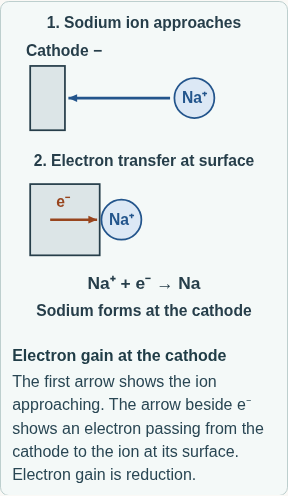
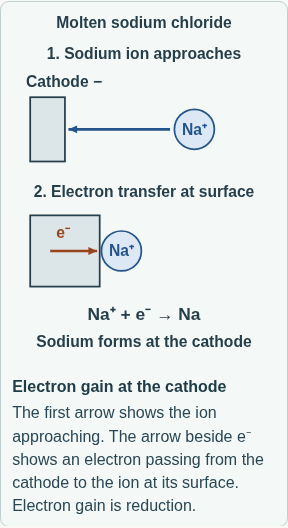
Clarify electrolysis label and phone table layout

Changed region(s): [[0.0938, 0.0907, 0.875, 0.6653], [0.0312, 0.6956, 0.9375, 0.9677], [0.1562, 0.0302, 0.8438, 0.0605]]

diff --git a/public/assets/gcse-more-step-visuals.js b/public/assets/gcse-more-step-visuals.js
@@ -935,14 +935,15 @@ function gasTests() {
 function electrolysisReduction() {
   return fig('Electron gain at the cathode',
     'In molten sodium chloride, a positive sodium ion approaches the negative cathode. At the electrode surface, an electron passes from the cathode to the ion. A sodium atom forms: Na⁺ plus an electron gives Na. The first arrow shows ion movement; the second shows electron transfer.',
-    text(160,25,'1. Sodium ion approaches',ink,18)+
-    text(68,57,'Cathode −',ink,18)+'<rect x="29" y="69" width="40" height="74" fill="#dce5e7" stroke="'+ink+'" stroke-width="2"/>'+
-    circle(218,106,23,'#dce8f5',blue,2)+text(218,112,'Na⁺',blue,18)+arrow(190,106,73,106,blue,3)+
-    text(160,184,'2. Electron transfer at surface',ink,18)+
-    '<rect x="29" y="205" width="80" height="82" fill="#dce5e7" stroke="'+ink+'" stroke-width="2"/>'+
-    circle(134,246,23,'#dce8f5',blue,2)+text(134,252,'Na⁺',blue,18)+text(67,231,'e⁻',rust,18)+arrow(52,246,106,246,rust,3)+
-    text(160,326,'Na⁺ + e⁻ → Na',ink,20)+text(160,357,'Sodium forms at the cathode',ink,18),
-    'The first arrow shows the ion approaching. The arrow beside e⁻ shows an electron passing from the cathode to the ion at its surface. Electron gain is reduction.',375);
+    text(160,25,'Molten sodium chloride',ink,18)+
+    text(160,61,'1. Sodium ion approaches',ink,18)+
+    text(68,93,'Cathode −',ink,18)+'<rect x="29" y="105" width="40" height="74" fill="#dce5e7" stroke="'+ink+'" stroke-width="2"/>'+
+    circle(218,142,23,'#dce8f5',blue,2)+text(218,148,'Na⁺',blue,18)+arrow(190,142,73,142,blue,3)+
+    text(160,220,'2. Electron transfer at surface',ink,18)+
+    '<rect x="29" y="241" width="80" height="82" fill="#dce5e7" stroke="'+ink+'" stroke-width="2"/>'+
+    circle(134,282,23,'#dce8f5',blue,2)+text(134,288,'Na⁺',blue,18)+text(67,267,'e⁻',rust,18)+arrow(52,282,106,282,rust,3)+
+    text(160,362,'Na⁺ + e⁻ → Na',ink,20)+text(160,393,'Sodium forms at the cathode',ink,18),
+    'The first arrow shows the ion approaching. The arrow beside e⁻ shows an electron passing from the cathode to the ion at its surface. Electron gain is reduction.',411);
 }
 
 function latentCalculation() {

diff --git a/public/assets/gcse-investigations.js b/public/assets/gcse-investigations.js
@@ -44,7 +44,7 @@ export const investigations = {
 
 Object.assign(investigations, {
   "electrode-evidence": investigation(10,"C4","Electrolysis from ions to observations","In a molten ionic compound the mobile ions come from the compound. In water, hydrogen and hydroxide ions can also contribute to electrode products.",
-    ["Aqueous copper sulfate and inert graphite electrodes",["Electrode","Observation"],[["Negative","Reddish solid forms"],["Positive","Gas relights a glowing splint"]]],
+    ["Aqueous copper sulfate and inert graphite electrodes",["Electrode","Observation"],[["Negative","Reddish solid forms"],["Positive","Gas relights a glowing splint"]],"school-electrode-evidence"],
     ["Connect two separate inert electrodes to a dc supply and immerse both in the electrolyte. Collect the products separately.",
     "Positive copper ions move towards the negative cathode and gain electrons to form copper metal. The positive anode attracts anions. With sulfate solution and inert electrodes, oxygen forms there.",
     "A glowing splint relighting identifies oxygen. Bubbles alone would show gas formation without identifying the gas."],

diff --git a/public/assets/school-catchup.css b/public/assets/school-catchup.css
@@ -85,6 +85,9 @@
 .school-lesson-table { width: 100%; max-width: 38rem; }
 .school-lesson-table caption { text-align: left; font-weight: 700; }
 .school-lesson-table :is(td,th) { overflow-wrap: anywhere; }
+/* Keep the electrode heading whole so its column has room for the short
+   electrode names; the other column may still wrap naturally on phones. */
+.school-lesson-table.school-electrode-evidence th:first-child { overflow-wrap: normal; }
 .school-evidence-visual { margin: .75rem 0; }
 .school-evidence-visual img { display: block; width: min(100%,26rem); height: auto; background: #f7fafb; border-radius: .5rem; }
 .school-evidence-visual figcaption { margin-top: .4rem; font-size: .9rem; color: #354d57; }

diff --git a/public/assets/gcse-catchup-priority.js b/public/assets/gcse-catchup-priority.js
@@ -25,9 +25,10 @@ export function sequence(year, code, title, hook, idea, options) {
   };
 }
 
-export function table(title, headers, rows) {
+export function table(title, headers, rows, className = "") {
   const container = node("div", "", "writing-data");
   const data = node("table", "", "school-lesson-table");
+  if (className) data.classList.add(className);
   data.createCaption().textContent = title;
   const headings = data.createTHead().insertRow();
   for (const label of headers) {

diff --git a/docs/catchup-visual-coverage-gcse-steps.md b/docs/catchup-visual-coverage-gcse-steps.md
@@ -48,7 +48,7 @@ Original diagrams are schematic and not to scale; colours differentiate features
 | Electrolysis of molten salt and salt solution (`salt-electrolysis`) — 1. Mobile ions | Electrolysis needs ions that can move. In a molten salt or solution, positive ions move to the negative electrode and negative ions move to the positive electrode. | `ions` (original schematic) | Reviewed against AQA 5.4.3.1 | Reviewed against block | 320/1280 rendering checked; phone figure visually inspected |
 | Electrolysis of molten salt and salt solution (`salt-electrolysis`) — 2. Molten compounds | Molten sodium chloride contains only sodium ions and chloride ions. Sodium forms at the negative electrode and chlorine at the positive electrode. | `moltenSalt` (original schematic) | Reviewed against AQA 5.4.3.2 | Reviewed against block | 320/1280 rendering checked; phone figure visually inspected |
 | Electrolysis of molten salt and salt solution (`salt-electrolysis`) — 3. Aqueous compounds | Sodium is more reactive than hydrogen. In sodium chloride solution, hydrogen forms at the negative electrode instead of sodium. | `brine` (original schematic) | Reviewed against AQA 5.4.3.4; concentrated solution specified | Gas bubbles distinguish hydrogen and chlorine; sodium remains mobile | Phase 2 inspected at 320/1280; no misleading sodium arrow |
-| Electrolysis of molten salt and salt solution (`salt-electrolysis`) — Higher Tier | Higher Tier · Reduction is gain of electrons and occurs at the negative electrode. For molten sodium chloride, Na⁺ + e⁻ → Na. | `electrolysisReduction` original schematic (inside Higher Tier disclosure) | Reviewed against AQA 5.4.3.5 | Ion approach and electron transfer at the cathode are separate | Phase 2 inspected at 320/1280; arrows have distinct purposes |
+| Electrolysis of molten salt and salt solution (`salt-electrolysis`) — Higher Tier | Higher Tier · Reduction is gain of electrons and occurs at the negative electrode. For molten sodium chloride, Na⁺ + e⁻ → Na. | `electrolysisReduction` original schematic (inside Higher Tier disclosure) | Reviewed against AQA 5.4.3.5 | Ion approach and electron transfer at the cathode are separate; the material is explicitly labelled molten sodium chloride in the figure | Phase 2 inspected at 320/1280; arrows and material label remain distinct |
 | Exothermic and endothermic reaction profiles (`reaction-profiles`) — opening key idea | The activation energy is the initial barrier. The difference between the reactant and product energy levels shows the overall transfer. | `energy profiles + activationBarrier + reactionNetTransfer` in opening notes | Reviewed against AQA 5.5.1.1–2 | Reviewed against block | 320/1280 rendering checked; figures visually inspected |
 | Exothermic and endothermic reaction profiles (`reaction-profiles`) — 1. Find the barrier | Activation energy is the minimum energy particles need for a successful collision. Read it from the reactant energy level to the peak. | `activationBarrier` (original schematic) | Reviewed against AQA 5.5.1.2 | Reviewed against block | 320/1280 rendering checked; phone figure visually inspected |
 | Exothermic and endothermic reaction profiles (`reaction-profiles`) — 2. Read the net change | Products have a lower energy level in an exothermic reaction. Energy is transferred to the surroundings. An endothermic reaction transfers in energy overall. | Original profiles + `reactionNetTransfer` | Reviewed against AQA 5.5.1.1–2 | Reviewed against block | 320/1280 rendering checked; phone figure visually inspected |
@@ -204,7 +204,7 @@ Original diagrams are schematic and not to scale; colours differentiate features
 | Quadrats, transects and abundance (`quadrat-evidence`) — worked 1: Work through the investigation | For a whole-field estimate, choose pairs of random grid coordinates before looking at plants. Use the same quadrat area and boundary rule each time. | `randomCoordinates + quadratBoundary` (directly beside this line) | Reviewed against AQA 4.7.2.1 | Reviewed: random coordinate, placement and an example boundary rule shown | 320/1280 rendering checked; phone figure visually inspected |
 | Quadrats, transects and abundance (`quadrat-evidence`) — worked 2: Work through the investigation | Four random 1 m² quadrats contain 2, 4, 5 and 5 plants. Mean density is 4 per m². A 200 m² field is estimated to contain 800 plants. | `quadratMeanWorked` (directly beside this line) | Reviewed against AQA 4.7.2.1 | Reviewed: counts, mean and area estimate shown | 320/1280 rendering checked; phone figure visually inspected |
 | Quadrats, transects and abundance (`quadrat-evidence`) — worked 3: Work through the investigation | For a gradient, place quadrats at fixed distances from the hedge. Repeat parallel transects to capture variation. | `parallelTransects` (directly beside this line) | Reviewed against AQA 4.7.2.1 | Reviewed: equal spacing and repeated parallel transects shown | 320/1280 rendering checked; phone figure visually inspected |
-| Electrolysis from ions to observations (`electrode-evidence`) — opening key idea | In a molten ionic compound the mobile ions come from the compound. In water, hydrogen and hydroxide ions can also contribute to electrode products. | `observations table + ionsInElectrolytes` in opening notes | Reviewed against AQA 5.4.3.1 and 5.4.3.4 | Reviewed against block | 320/1280 rendering checked; figures visually inspected |
+| Electrolysis from ions to observations (`electrode-evidence`) — opening key idea | In a molten ionic compound the mobile ions come from the compound. In water, hydrogen and hydroxide ions can also contribute to electrode products. | `observations table + ionsInElectrolytes` in opening notes | Reviewed against AQA 5.4.3.1 and 5.4.3.4 | Reviewed against block | 320/375/1280 table checked; “Electrode” and electrode names stay whole; figures visually inspected |
 | Electrolysis from ions to observations (`electrode-evidence`) — worked 1: Work through the investigation | Connect two separate inert electrodes to a dc supply and immerse both in the electrolyte. Collect the products separately. | `copperElectrolysis + anodeGasCollection` (directly beside this line) | Reviewed against AQA 5.4.3.1 and 5.4.3.4, practical 9 | Reviewed: connected inert electrodes and gas collected separately | 320/1280 rendering checked; phone figure visually inspected |
 | Electrolysis from ions to observations (`electrode-evidence`) — worked 2: Work through the investigation | Positive copper ions move towards the negative cathode and gain electrons to form copper metal. The positive anode attracts anions. With sulfate solution and inert electrodes, oxygen forms there. | `electrodeProducts` (directly beside this line) | Reviewed against AQA 5.4.3.1 and 5.4.3.4 | Reviewed: copper ions to cathode, anions to anode and observed products | 320/1280 rendering checked; phone figure visually inspected |
 | Electrolysis from ions to observations (`electrode-evidence`) — worked 3: Work through the investigation | A glowing splint relighting identifies oxygen. Bubbles alone would show gas formation without identifying the gas. | `glowingSplint` (directly beside this line) | Reviewed against AQA 5.8.2.2 | Reviewed: glowing splint relights in collected oxygen | 320/1280 rendering checked; phone figure visually inspected |

diff --git a/docs/catchup-visual-quality-phase2.md b/docs/catchup-visual-quality-phase2.md
@@ -7,7 +7,8 @@ This is a targeted adversarial review of selected teaching routes, not a full sc
 | KS3 Year 8 electricity, electromagnet | High: the cell terminal was disconnected and a straight wire bypassed the coil. | The closed circuit now passes through a continuous winding around the iron core. | The wire joins both terminals and the winding; the model is schematic. Cell and switch labels were separated after checking the deployed Poppins font. [Before](catchup-visual-phase2/ks3-electromagnet-before-phone.png) · [After](catchup-visual-phase2/ks3-electromagnet-after-phone.png) |
 | KS3 reproduction, pollination | Medium: the ovule leader ended against a similarly coloured outline, and small labels and movement arrow were hard to read on a phone. | Contrasting endpoint dots identify the ovule and pollen tube; the pollen movement arrow has a distinct head and the caption distinguishes it from label lines. | Both pollination and pollen-tube states inspected at 320 and 1280 px; [KS3 ledger](catchup-visual-coverage-ks3-steps.md). |
 | Year 9 active transport, opening and teaching steps | High: the comparison omitted the carrier protein and its labels became very small on phones; opening leaders missed their intended structures. | The active-transport panel shows the protein and direction against the concentration gradient, with larger labels and leaders placed on their targets. | Movement arrows, membrane, protein, respiratory-energy explanation and independent-stage separation checked at 320 and 1280 px. This is the Year 9/GCSE bridge rather than a Year 10 lesson. |
-| GCSE electrolysis, aqueous and Higher Tier reduction | High: the brine arrow could be read as sodium forming hydrogen; the reduction drawing placed electron transfer away from the electrode. | Bubbles identify gaseous products and the caption states sodium ions remain mobile. Two stages distinguish ion approach from electron transfer at the cathode surface. | Arrow functions and endpoints checked with the relevant Foundation and Higher text. [Before](catchup-visual-phase2/gcse-reduction-before-phone.png) · [After](catchup-visual-phase2/gcse-reduction-after-phone.png) |
+| GCSE electrolysis, aqueous and Higher Tier reduction | High: the brine arrow could be read as sodium forming hydrogen; the reduction drawing placed electron transfer away from the electrode. | Bubbles identify gaseous products and the caption states sodium ions remain mobile. Two stages distinguish ion approach from electron transfer at the cathode surface; the figure explicitly labels the molten sodium chloride example. | Arrow functions and endpoints checked with the relevant Foundation and Higher text. [Before](catchup-visual-phase2/gcse-reduction-before-phone.png) · [After](catchup-visual-phase2/gcse-reduction-after-phone.png) |
+| GCSE electrode evidence, observations table | Low: on a narrow screen the “Electrode” heading could break within the word. | The electrode table preserves the first heading as a whole word while allowing the observation column to wrap. | Checked at 320, 375 and 1280 px, including the guided evidence copy; [phone view](catchup-visual-phase2/gcse-electrode-table-phone.png). |
 | GCSE nervous coordination, reflex and synapse | High: the reflex visual did not identify the receptor or relay neurone, and the transmitter arrow ran through similarly coloured dots. | An ordered pathway shows receptor, sensory neurone, relay neurone, motor neurone and muscle. A separate synapse view distinguishes signal direction, transmitter and a receptor at which it binds. | Compared with AQA 4.5.2; movement arrowheads and the contrasting receptor-leader endpoint were inspected at phone and desktop sizes. The figure is a flow diagram, not an anatomical map. |
 | GCSE immunity, antibody and antigen | Medium: the antigen leader did not clearly identify an antigen on a pathogen. | A labelled pathogen, surface antigen and complementary antibody binding site make the relationship explicit. | The leader ends on the antigen; the shapes are schematic. Checked at 320 and 1280 px. |
 | A-level co-transport, chemiosmosis and oxidative phosphorylation | High: the sodium gradient was implicit and overlapping electron/proton arrows obscured causal direction. | The ileum comparison labels the sodium gradient; electron transfer and proton pumping are separated, with particles shown on both sides of the membrane. | Captions explain energy coupling and omitted detail; reviewed with the adjacent A-level explanation, at 320 and 1280 px. |
@@ -22,5 +23,4 @@ The main references for this focused work are the [national curriculum for KS3 s
 ## Remaining work
 
 - A-level amino-acid co-transport remains explained in text rather than separately drawn; the reviewed diagram shows sodium–glucose co-transport.
-- At 320 px the GCSE `electrode-evidence` observations table can wrap “Electrode” within the word; the evidence remains readable. Review shared table layout separately.
 - Existing Phase 1 ledgers contain other partial representations and unreviewed visual-quality questions. This sample and automated checks cannot establish scientific accuracy or accessibility for the entire library. No pupil trial or full manual screen-reader review was undertaken.
